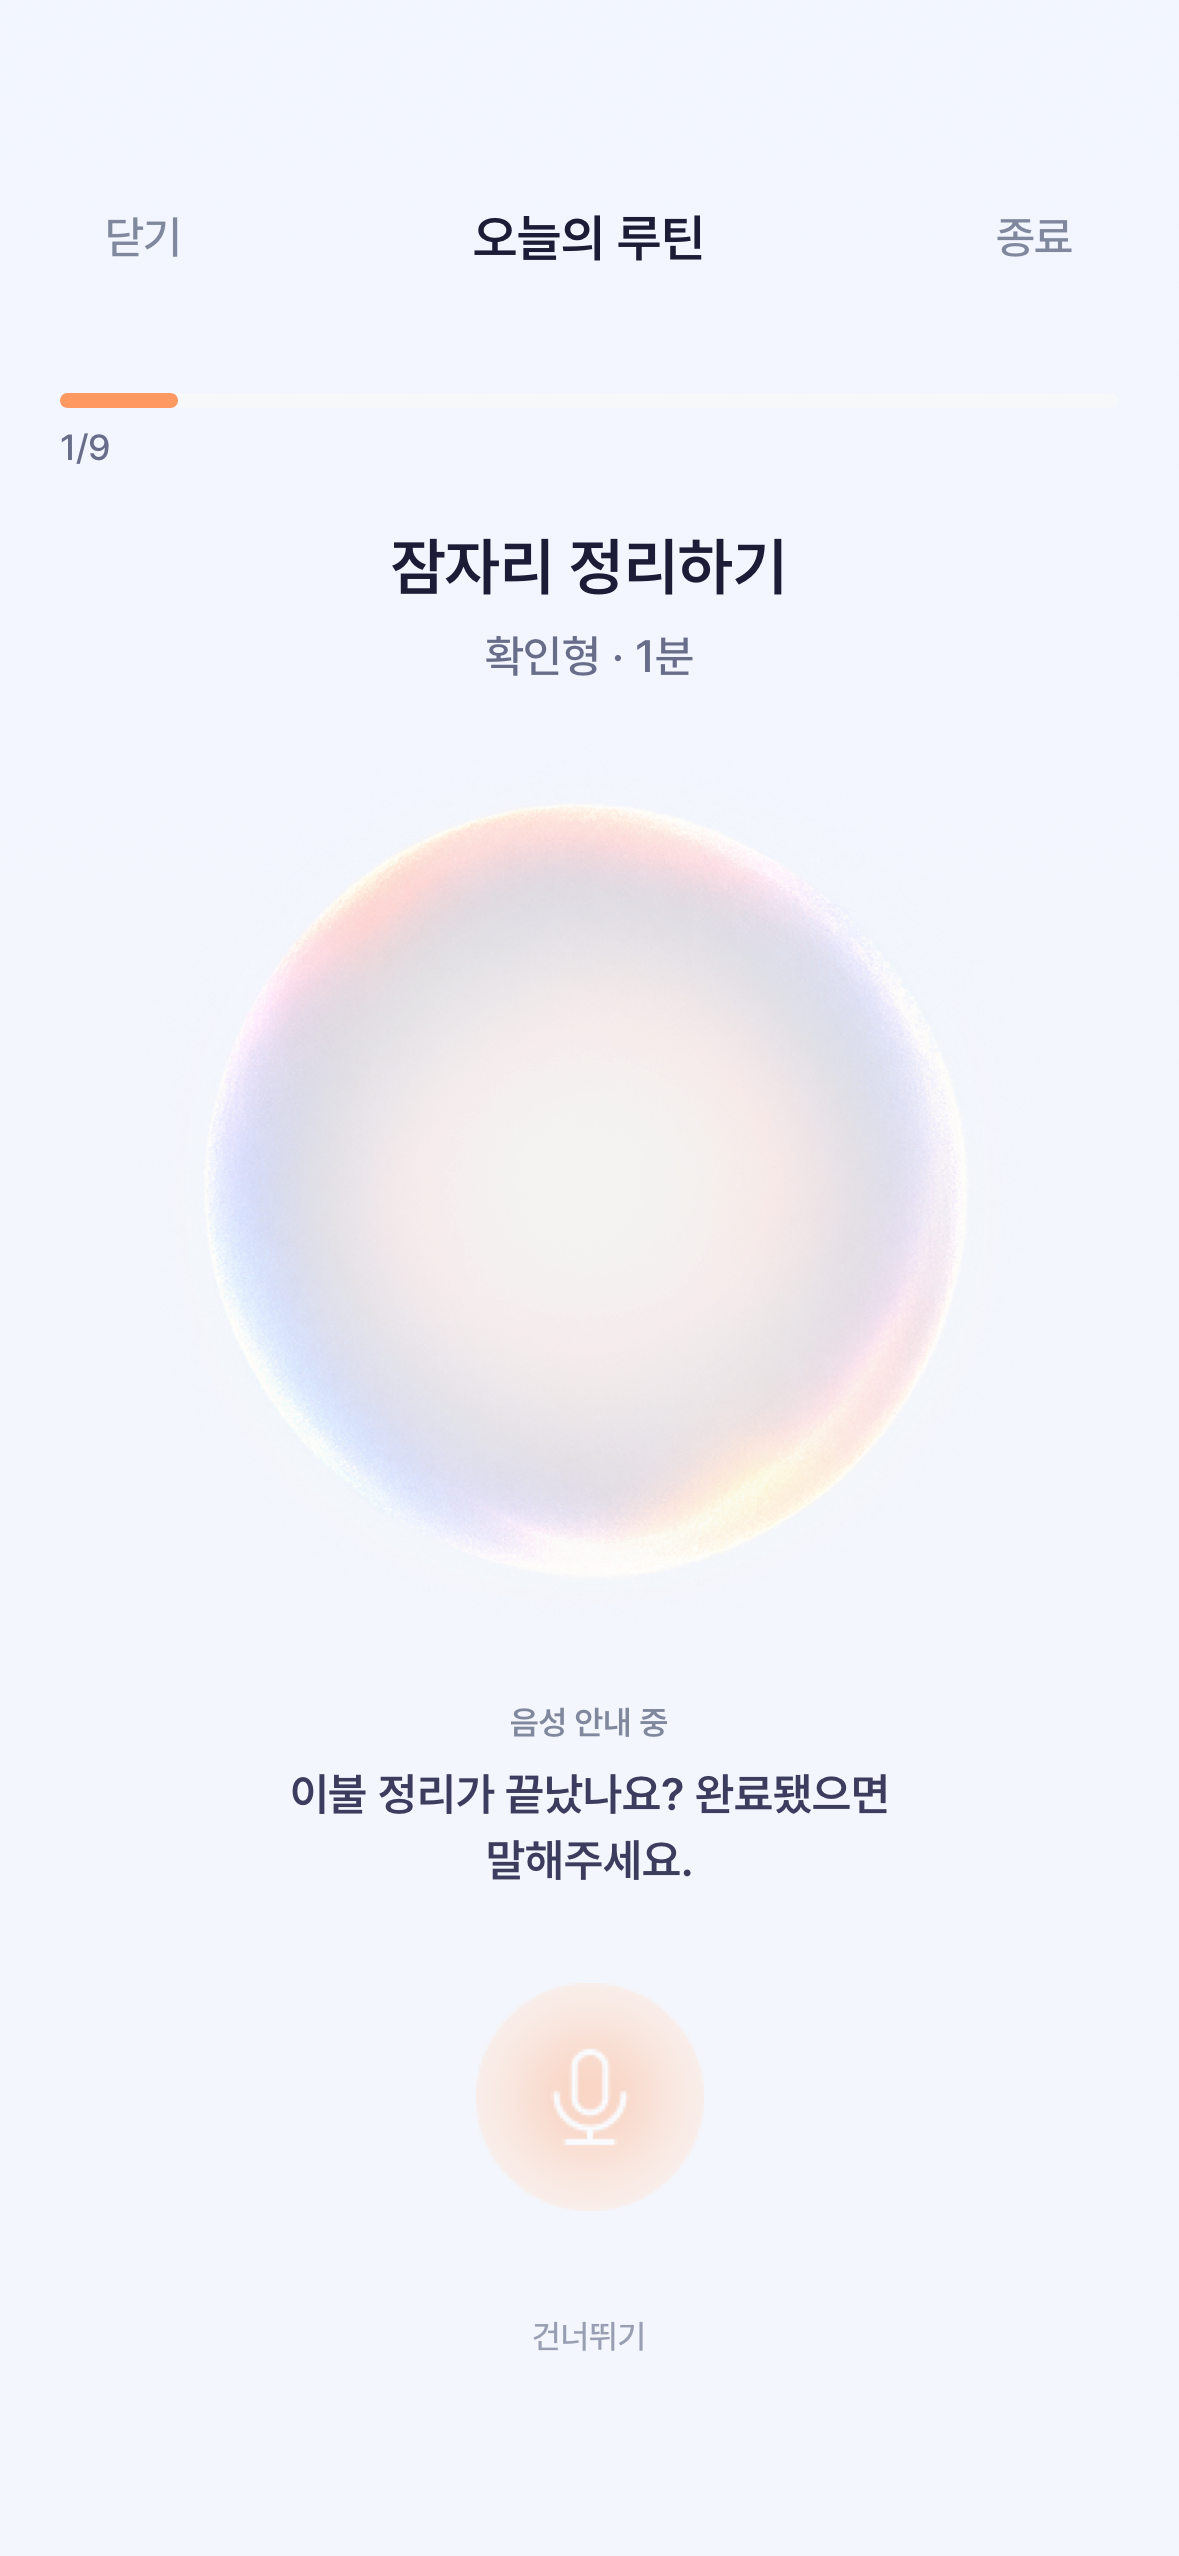
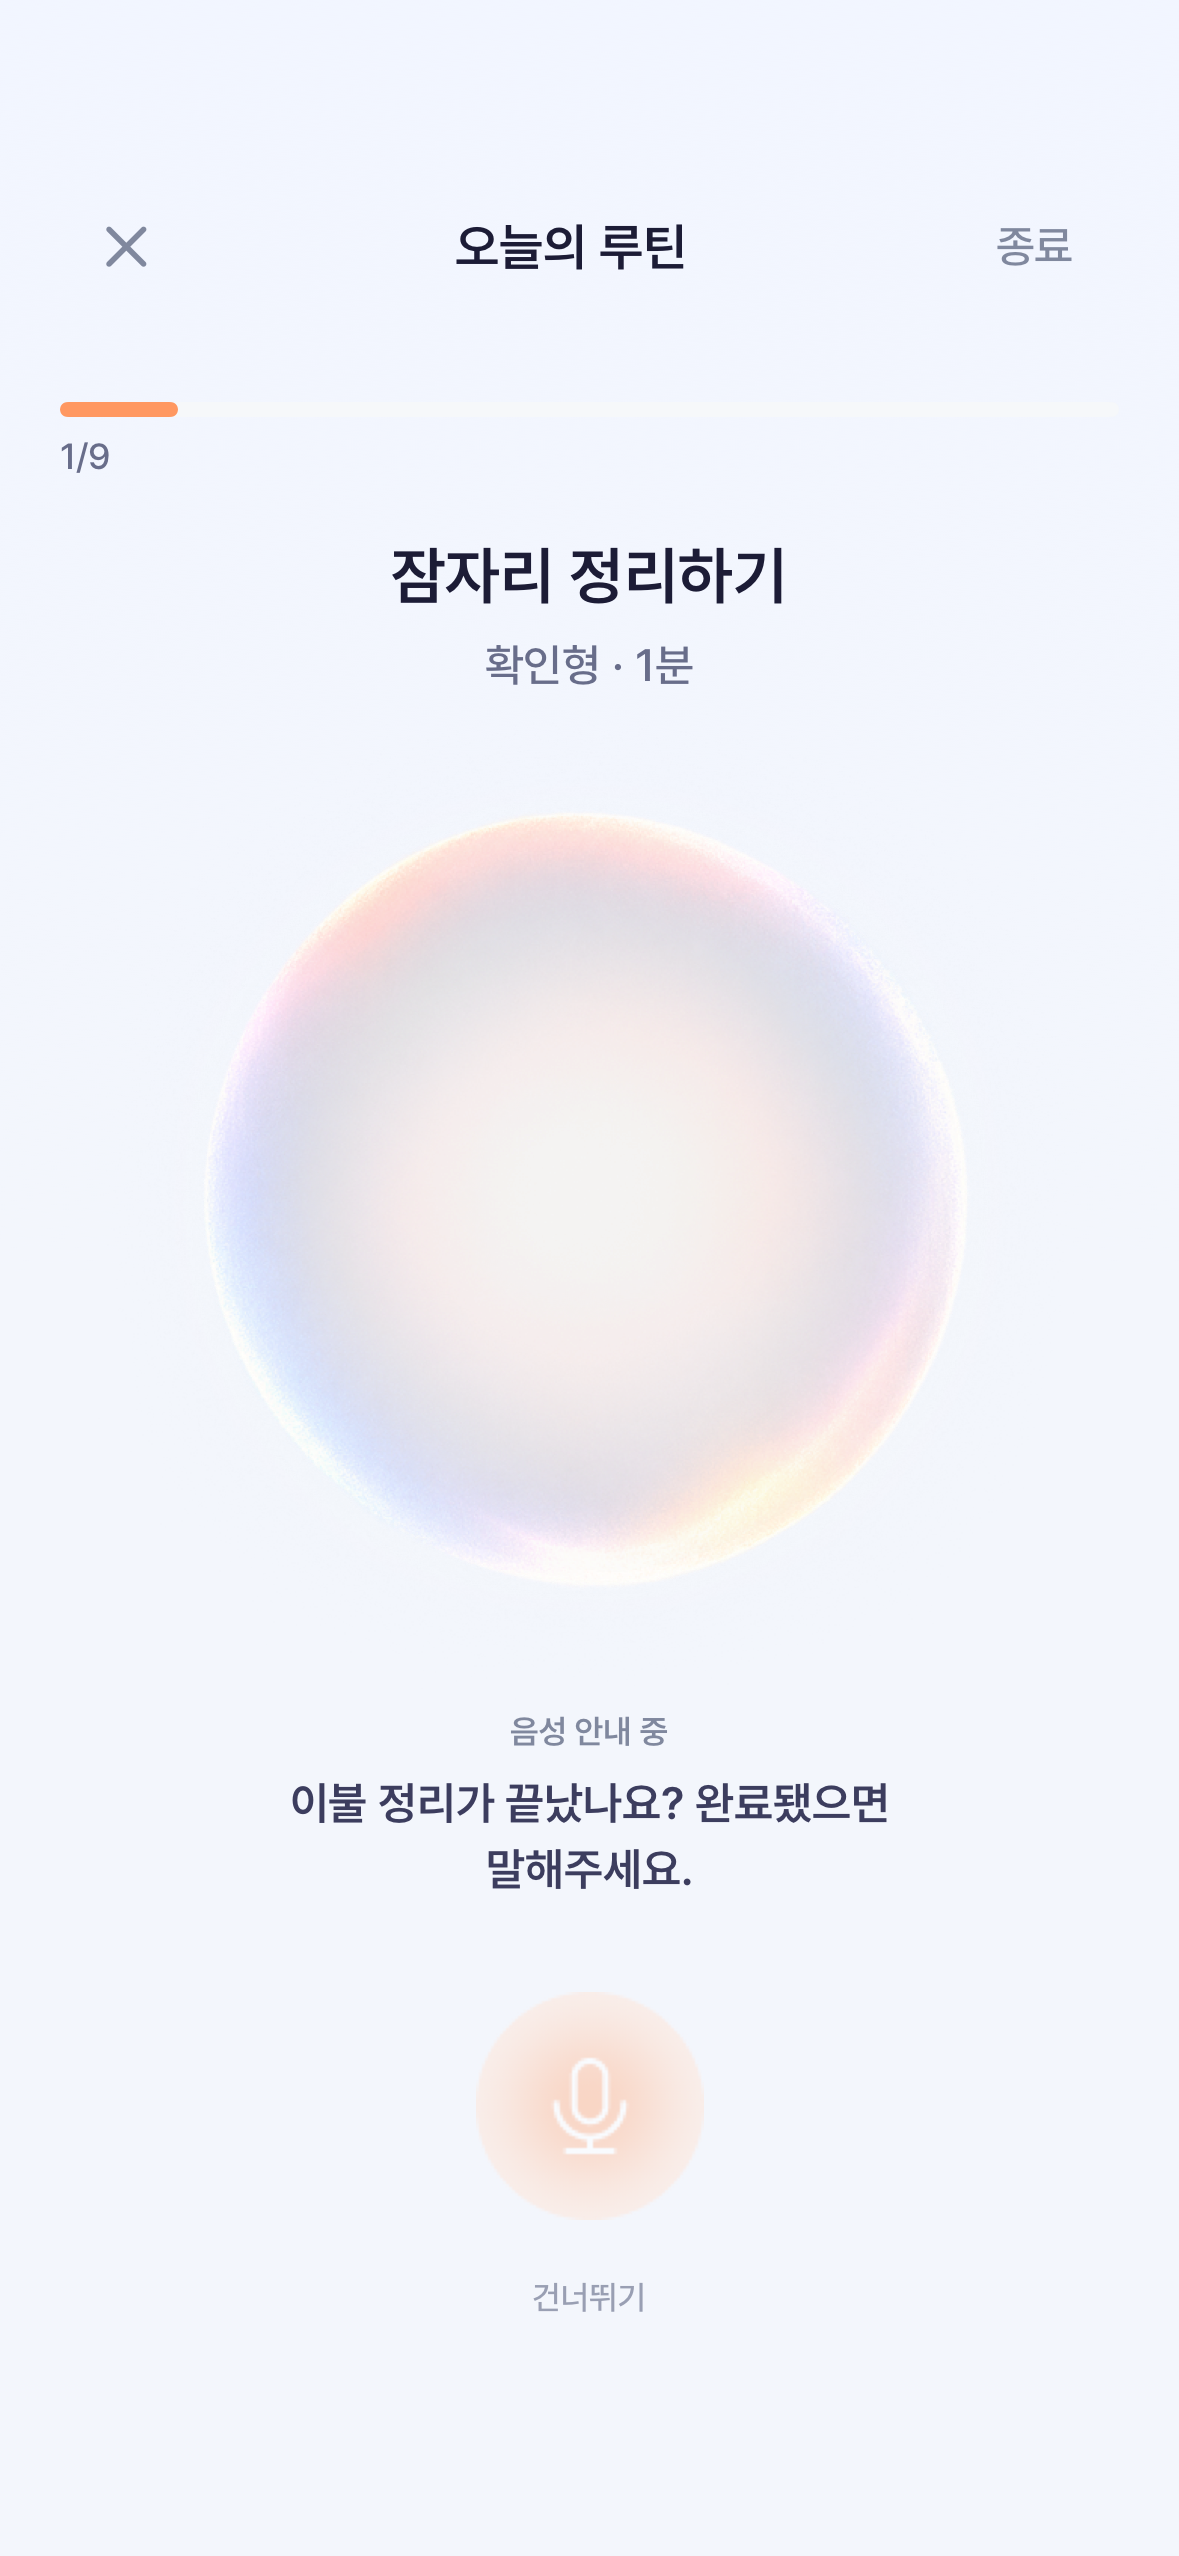
[Fix] 상단바 닫기와 종료를 구분
둘 다 같은 글씨·같은 다이얼로그였지만 결과는 갈렸다(닫기=저장 후 홈, 종료=저장 후 요약).
닫기는 X 아이콘으로 바꾸고 접근성 레이블·힌트를 달았다. 다이얼로그 문구는
RoutinePlayerDialogCopy에 모아 end/close/skip/discard 네 벌을 테스트로 단언한다.
EndRoutineDialogView는 닫기·종료를 모두 다루므로 ExitRoutineDialogView로 이름을 바꿨다.

P4 시각 기준선 4장 교체: regular-confirm-light-M(X 아이콘, 28), regular-timer-light-AX3(25),
그리고 임계값 직전이던 regular-structured-timer-light-AX3(23)·trial-confirm-light-M(24).

diff --git a/Moru/MoruTests/RoutinePlayerDialogCopyTests.swift b/Moru/MoruTests/RoutinePlayerDialogCopyTests.swift
@@ -1,0 +1,59 @@
+//
+//  RoutinePlayerDialogCopyTests.swift
+//  MoruTests
+//
+
+import XCTest
+@testable import Moru
+
+final class RoutinePlayerDialogCopyTests: XCTestCase {
+  func testEndAndCloseDialogsAskDifferentQuestions() {
+    let end = RoutinePlayerDialogCopy.exit(.endedEarly)
+    let close = RoutinePlayerDialogCopy.exit(.userDismissed)
+
+    XCTAssertEqual(end, .endRoutine)
+    XCTAssertEqual(close, .closeRoutine)
+    XCTAssertEqual(end.title, "루틴을 종료할까요?")
+    XCTAssertEqual(close.title, "루틴을 닫을까요?")
+    XCTAssertNotEqual(end.message, close.message)
+    XCTAssertNotEqual(end.confirmTitle, close.confirmTitle)
+    XCTAssertEqual(end.cancelTitle, "계속하기")
+    XCTAssertEqual(close.cancelTitle, "계속하기")
+  }
+
+  func testEndDialogKeepsTheOriginalRecordingPromise() {
+    XCTAssertEqual(
+      RoutinePlayerDialogCopy.endRoutine.message,
+      "지금까지 완료한 항목만 저장돼요.\n나머지는 미완료로 기록됩니다."
+    )
+    XCTAssertEqual(RoutinePlayerDialogCopy.endRoutine.confirmTitle, "종료하기")
+  }
+
+  func testCloseDialogExplainsRecordAndHomeReturn() {
+    XCTAssertEqual(
+      RoutinePlayerDialogCopy.closeRoutine.message,
+      "지금까지의 진행은 기록에 남고\n홈으로 돌아가요."
+    )
+    XCTAssertEqual(RoutinePlayerDialogCopy.closeRoutine.confirmTitle, "닫기")
+  }
+
+  func testSkipDialogCopyIsUnchanged() {
+    XCTAssertEqual(RoutinePlayerDialogCopy.skipStep.title, "이 항목을 건너뛸까요?")
+    XCTAssertEqual(
+      RoutinePlayerDialogCopy.skipStep.message,
+      "건너뛰면 현재 루틴은 미완료로 기록돼요.\n다음 루틴으로 넘어갈게요."
+    )
+    XCTAssertEqual(RoutinePlayerDialogCopy.skipStep.confirmTitle, "건너뛰기")
+  }
+
+  func testDiscardDialogOffersRetryBeforeLeaving() {
+    let copy = RoutinePlayerDialogCopy.discardUnsavedRun
+    XCTAssertEqual(copy.title, "기록 없이 나갈까요?")
+    XCTAssertEqual(
+      copy.message,
+      "저장하지 못한 오늘 기록은 남지 않아요.\n다시 시도하면 저장할 수 있어요."
+    )
+    XCTAssertEqual(copy.cancelTitle, "돌아가기")
+    XCTAssertEqual(copy.confirmTitle, "기록 없이 나가기")
+  }
+}

diff --git a/Moru/Moru/RoutineFlow/RoutinePlayer/RoutinePlayerDialogCopy.swift b/Moru/Moru/RoutineFlow/RoutinePlayer/RoutinePlayerDialogCopy.swift
@@ -6,13 +6,46 @@
 import Foundation
 
 /// 루틴 플레이어 다이얼로그 문구. 뷰가 아니라 여기서 단언한다.
-struct RoutinePlayerDialogCopy: Equatable {
+nonisolated struct RoutinePlayerDialogCopy: Equatable {
   let title: String
   let message: String
   /// 다이얼로그를 닫고 루틴으로 돌아가는 버튼
   let cancelTitle: String
   /// 다이얼로그가 묻는 행동을 실행하는 버튼
   let confirmTitle: String
+
+  /// 상단바 "종료": 지금까지의 결과를 저장하고 완료 요약 화면으로 간다.
+  static let endRoutine = RoutinePlayerDialogCopy(
+    title: "루틴을 종료할까요?",
+    message: """
+    지금까지 완료한 항목만 저장돼요.
+    나머지는 미완료로 기록됩니다.
+    """,
+    cancelTitle: "계속하기",
+    confirmTitle: "종료하기"
+  )
+
+  /// 상단바 "닫기"(X): 지금까지의 결과를 저장하고 요약 없이 홈으로 돌아간다.
+  static let closeRoutine = RoutinePlayerDialogCopy(
+    title: "루틴을 닫을까요?",
+    message: """
+    지금까지의 진행은 기록에 남고
+    홈으로 돌아가요.
+    """,
+    cancelTitle: "계속하기",
+    confirmTitle: "닫기"
+  )
+
+  /// 건너뛰기 footer
+  static let skipStep = RoutinePlayerDialogCopy(
+    title: "이 항목을 건너뛸까요?",
+    message: """
+    건너뛰면 현재 루틴은 미완료로 기록돼요.
+    다음 루틴으로 넘어갈게요.
+    """,
+    cancelTitle: "계속하기",
+    confirmTitle: "건너뛰기"
+  )
 
   /// 저장에 실패한 기록을 버리고 나갈지 묻는다.
   static let discardUnsavedRun = RoutinePlayerDialogCopy(
@@ -24,4 +57,15 @@ struct RoutinePlayerDialogCopy: Equatable {
     cancelTitle: "돌아가기",
     confirmTitle: "기록 없이 나가기"
   )
+
+  static func exit(
+    _ exit: RoutinePlayerViewModel.DialogState.Exit
+  ) -> RoutinePlayerDialogCopy {
+    switch exit {
+    case .endedEarly:
+      return endRoutine
+    case .userDismissed:
+      return closeRoutine
+    }
+  }
 }

diff --git a/Moru/Moru/RoutineFlow/RoutinePlayer/RoutinePlayerView.swift b/Moru/Moru/RoutineFlow/RoutinePlayer/RoutinePlayerView.swift
@@ -348,8 +348,9 @@ struct RoutinePlayerView: View {
                 }
             )
 
-        case .some(.exit(_)):
-            EndRoutineDialogView(
+        case .some(.exit(let exit)):
+            ExitRoutineDialogView(
+                exit: exit,
                 onCancel: {
                     viewModel.cancelActiveDialog()
                 },
@@ -408,17 +409,20 @@ struct RoutinePlayerView: View {
         .padding(.horizontal, 20)
     }
 
+    /// 닫기(X): 기록을 저장하고 요약 없이 홈으로. "종료"와 역할이 다르므로 아이콘으로 구분한다.
     private var closeButton: some View {
         Button {
             viewModel.requestCloseRoutine()
         } label: {
-            Text("닫기")
-                .font(AppFont.pretendardMedium(size: 16, relativeTo: .body))
+            Image(systemName: "xmark")
+                .font(.system(size: 17, weight: .medium))
                 .foregroundStyle(AppColor.gray350)
-                .frame(minWidth: 56, minHeight: 40)
+                .frame(minWidth: 44, minHeight: 40)
                 .contentShape(Rectangle())
         }
         .buttonStyle(.plain)
+        .accessibilityLabel("닫기")
+        .accessibilityHint("지금까지의 진행을 기록하고 홈으로 돌아갑니다")
     }
 
     private var topBarTitle: some View {
@@ -440,6 +444,7 @@ struct RoutinePlayerView: View {
                 .contentShape(Rectangle())
         }
         .buttonStyle(.plain)
+        .accessibilityHint("지금까지의 결과를 저장하고 완료 화면으로 이동합니다")
     }
 
     private var progressSection: some View {

diff --git a/Moru/Moru/RoutineFlow/RoutinePlayer/Dialogs/ExitRoutineDialogView.swift b/Moru/Moru/RoutineFlow/RoutinePlayer/Dialogs/ExitRoutineDialogView.swift
@@ -1,5 +1,5 @@
 //
-//  SkipStepDialogView.swift
+//  ExitRoutineDialogView.swift
 //  Moru
 //
 //  Created by 김승겸 on 7/8/26.
@@ -7,12 +7,16 @@
 
 import SwiftUI
 
-struct SkipStepDialogView: View {
+/// 상단바 닫기(X)·종료 확인 다이얼로그. 문구만 다르고 결과는 둘 다 기록 저장이다.
+struct ExitRoutineDialogView: View {
+  let exit: RoutinePlayerViewModel.DialogState.Exit
   let onCancel: () -> Void
   let onConfirm: () -> Void
   @Environment(\.dynamicTypeSize) private var dynamicTypeSize
 
-  private let copy = RoutinePlayerDialogCopy.skipStep
+  private var copy: RoutinePlayerDialogCopy {
+    RoutinePlayerDialogCopy.exit(exit)
+  }
 
   var body: some View {
     ZStack {
